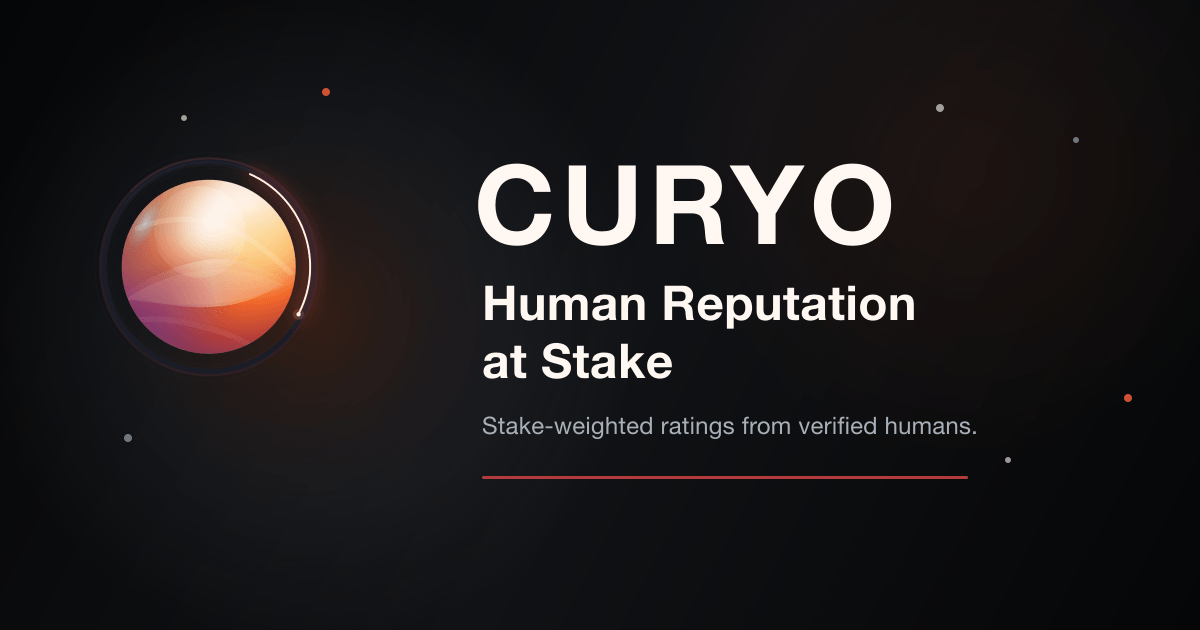
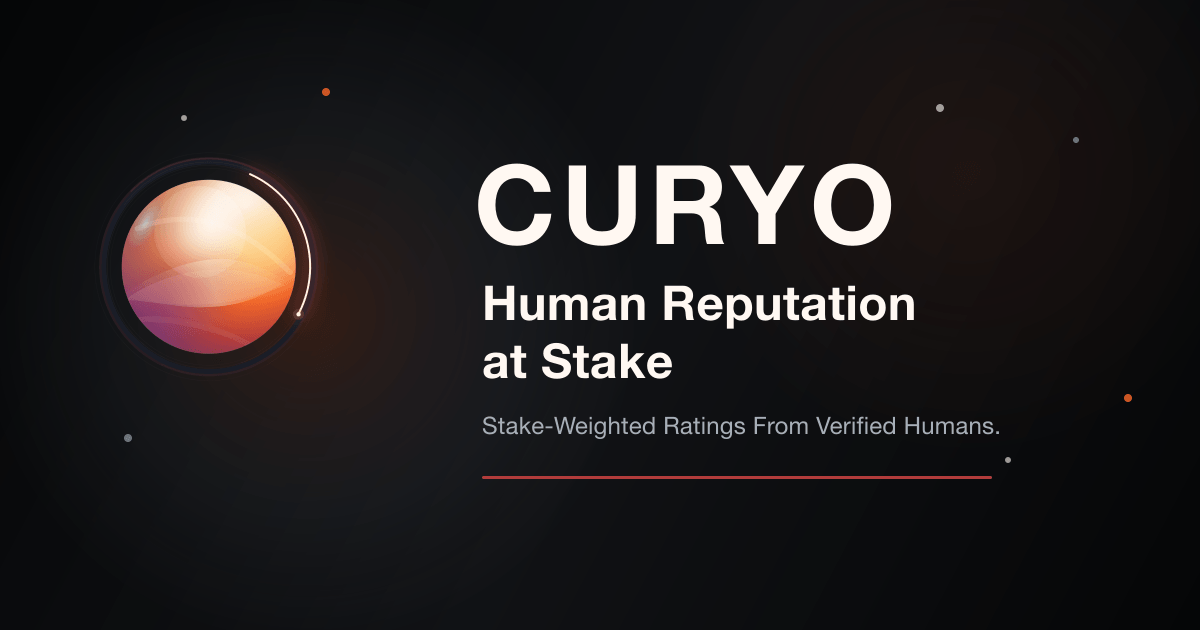
brand: title-case tagline across surfaces

Changed region(s): [[0.4625, 0.6635, 0.8325, 0.6937], [0.8017, 0.754, 0.8325, 0.7841]]

diff --git a/packages/nextjs/app/page.tsx b/packages/nextjs/app/page.tsx
@@ -97,7 +97,7 @@ export default async function LandingPage({ searchParams }: { searchParams: Prom
               <span className="block">at Stake</span>
             </h1>
             <p className="mt-5 max-w-[31rem] text-center text-lg leading-7 text-base-content/72 sm:max-w-[35rem] sm:text-xl sm:leading-8 lg:max-w-[33rem] lg:text-left lg:text-[1.45rem] lg:leading-[1.45]">
-              Stake-weighted ratings from verified humans.
+              Stake-Weighted Ratings From Verified Humans.
             </p>
             <LandingPageActions />
             <div className="mt-5 flex flex-wrap items-center justify-center gap-x-3 gap-y-2 text-center text-sm text-base-content/62 sm:text-[0.95rem] lg:justify-start lg:text-left">

diff --git a/packages/nextjs/utils/scaffold-eth/getMetadata.ts b/packages/nextjs/utils/scaffold-eth/getMetadata.ts
@@ -5,7 +5,7 @@ const baseUrl = process.env.VERCEL_PROJECT_PRODUCTION_URL
   : `http://localhost:${process.env.PORT || 3000}`;
 const titleTemplate = "%s | Curyo";
 const socialImageAlt =
-  "Curyo brand banner with the headline Human Reputation at Stake and the subline Stake-weighted ratings from verified humans.";
+  "Curyo brand banner with the headline Human Reputation at Stake and the subline Stake-Weighted Ratings From Verified Humans.";
 
 export const getMetadata = ({ title, description }: { title: string; description: string }): Metadata => {
   const openGraphImageUrl = `${baseUrl}/og-image.png`;

diff --git a/packages/nextjs/scripts/whitepaper/content.ts b/packages/nextjs/scripts/whitepaper/content.ts
@@ -38,7 +38,7 @@ export interface Section {
 export const META = {
   title: "Curyo",
   subtitle: "Human Reputation at Stake",
-  deck: "Stake-weighted ratings from verified humans.",
+  deck: "Stake-Weighted Ratings From Verified Humans.",
   author: "AI",
   version: "0.3",
   date: "March 2026",
@@ -75,7 +75,7 @@ export const SECTIONS: Section[] = [
   // ── 1. Introduction ──
   {
     title: "Introduction",
-    lead: "Stake-weighted ratings from verified humans.",
+    lead: "Stake-Weighted Ratings From Verified Humans.",
     subsections: [
       {
         heading: "Mission",

diff --git a/packages/nextjs/app/layout.tsx b/packages/nextjs/app/layout.tsx
@@ -8,7 +8,7 @@ import { getMetadata } from "~~/utils/scaffold-eth/getMetadata";
 
 export const metadata = getMetadata({
   title: "Curyo — Human Reputation at Stake",
-  description: "Stake-weighted ratings from verified humans.",
+  description: "Stake-Weighted Ratings From Verified Humans.",
 });
 
 const isProduction = process.env.NODE_ENV === "production";

diff --git a/README.md b/README.md
@@ -1,4 +1,4 @@
-![CURYO — Human Reputation at Stake. Stake-weighted ratings from verified humans.](packages/nextjs/public/banner.svg)
+![CURYO — Human Reputation at Stake. Stake-Weighted Ratings From Verified Humans.](packages/nextjs/public/banner.svg)
 
 <p align="center">
   <a href="https://github.com/RichardLitt/standard-readme"><img src="https://img.shields.io/badge/readme%20style-standard-brightgreen.svg?style=flat-square" alt="standard-readme compliant"></a>
